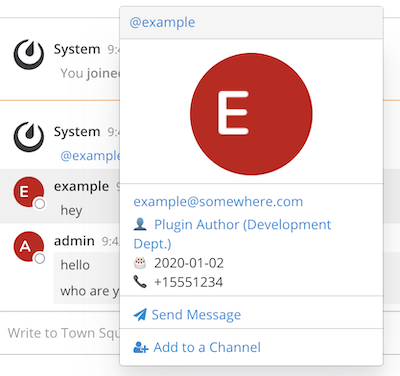
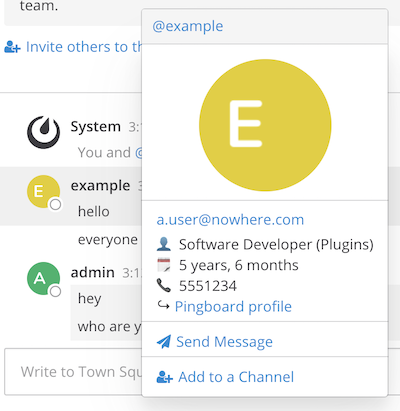
Reformat displayed information
Time since start instead of start date
Separate link to pingboard profile underneath

diff --git a/webapp/src/dateutil.test.js b/webapp/src/dateutil.test.js
@@ -1,0 +1,23 @@
+/* eslint-disable no-magic-numbers */
+import {describeTenure} from 'dateutil';
+
+test('Tenure descriptions are as expected', () => {
+    const startDate = new Date(2010, 6, 10);
+    expect(describeTenure(startDate, new Date(2010, 1, 30))).toStrictEqual('');
+    expect(describeTenure(startDate, new Date(2010, 6, 10))).toStrictEqual('New starter');
+    expect(describeTenure(startDate, new Date(2010, 6, 30))).toStrictEqual('New starter');
+    expect(describeTenure(startDate, new Date(2010, 7, 9))).toStrictEqual('New starter');
+    expect(describeTenure(startDate, new Date(2010, 7, 10))).toStrictEqual('1 month');
+    expect(describeTenure(startDate, new Date(2010, 7, 25))).toStrictEqual('1 month');
+    expect(describeTenure(startDate, new Date(2010, 8, 9))).toStrictEqual('1 month');
+    expect(describeTenure(startDate, new Date(2010, 8, 10))).toStrictEqual('2 months');
+    expect(describeTenure(startDate, new Date(2011, 1, 5))).toStrictEqual('6 months');
+    expect(describeTenure(startDate, new Date(2011, 1, 10))).toStrictEqual('7 months');
+    expect(describeTenure(startDate, new Date(2011, 6, 9))).toStrictEqual('11 months');
+    expect(describeTenure(startDate, new Date(2011, 6, 10))).toStrictEqual('1 year');
+    expect(describeTenure(startDate, new Date(2011, 8, 30))).toStrictEqual('1 year, 2 months');
+    expect(describeTenure(startDate, new Date(2011, 10, 5))).toStrictEqual('1 year, 3 months');
+    expect(describeTenure(startDate, new Date(2011, 10, 11))).toStrictEqual('1 year, 4 months');
+    expect(describeTenure(startDate, new Date(2013, 6, 10))).toStrictEqual('3 years');
+    expect(describeTenure(startDate, new Date(2099, 2, 15))).toStrictEqual('88 years, 8 months');
+});

diff --git a/webapp/src/components/user_attribute/user_attribute.jsx b/webapp/src/components/user_attribute/user_attribute.jsx
@@ -1,7 +1,9 @@
 import React from 'react';
 import PropTypes from 'prop-types';
 
+import {describeTenure} from '../../dateutil';
 import {id as pluginId} from '../../manifest';
+
 const {messageHtmlToComponent} = window.PostUtils;
 
 export default class UserAttribute extends React.PureComponent {
@@ -21,18 +23,23 @@ export default class UserAttribute extends React.PureComponent {
         if (pingboardInfo == null) {
             return null;
         }
+        const localDate = new Date();
+        const startDate = new Date(pingboardInfo.start_year, pingboardInfo.start_month - 1, pingboardInfo.start_day);
+        const tenure = describeTenure(startDate, localDate);
         const description = pingboardInfo.job_title + (pingboardInfo.department ? ` (${pingboardInfo.department})` : '');
         return (
             <div>
                 <div key={`${pluginId}_job_title`}>
-                    {messageHtmlToComponent(
-                        `<a href=${pingboardInfo.url} target="_blank">👤 ${description}</a>`)}
+                    {messageHtmlToComponent(`👤 ${description}`)}
                 </div>
                 <div key={`${pluginId}_start_date`}>
-                    {messageHtmlToComponent(`🎂 ${pingboardInfo.start_date}`)}
+                    {messageHtmlToComponent(`🗓 ${tenure}`)}
                 </div>
                 <div key={`${pluginId}_phone`}>
                     {messageHtmlToComponent(`📞 ${pingboardInfo.phone}`)}
+                </div>
+                <div key={`${pluginId}_link`}>
+                    {messageHtmlToComponent(`↪ <a href=${pingboardInfo.url} target="_blank">Pingboard profile</a>`)}
                 </div>
             </div>
         );

diff --git a/webapp/src/dateutil.js b/webapp/src/dateutil.js
@@ -1,0 +1,32 @@
+const MONTHS_IN_YEAR = 12;
+
+export function describeTenure(startDate, localDate) {
+    if (startDate > localDate) {
+        return '';
+    }
+    let years = localDate.getFullYear() - startDate.getFullYear();
+    let months = localDate.getMonth() - startDate.getMonth();
+    if (localDate.getDate() < startDate.getDate()) {
+        months -= 1;
+    }
+    if (months < 0) {
+        years -= 1;
+        months += MONTHS_IN_YEAR;
+    }
+
+    if (years === 0 && months === 0) {
+        return 'New starter';
+    }
+
+    let tenure = '';
+    if (years > 0) {
+        tenure = years + ' year' + (years === 1 ? '' : 's');
+    }
+    if (months > 0) {
+        if (tenure) {
+            tenure += ', ';
+        }
+        tenure += months + ' month' + (months === 1 ? '' : 's');
+    }
+    return tenure;
+}

diff --git a/server/plugin.go b/server/plugin.go
@@ -12,7 +12,9 @@ import (
 type User struct {
 	Id         string `json:"id"`
 	Url        string `json:"url"`
-	StartDate  string `json:"start_date"`
+	StartYear  int    `json:"start_year"`
+	StartMonth int    `json:"start_month"`
+	StartDay   int    `json:"start_day"`
 	Phone      string `json:"phone"`
 	JobTitle   string `json:"job_title"`
 	Department string `json:"department"`

diff --git a/README.md b/README.md
@@ -6,8 +6,10 @@ it on the user popover card.
 ## Features
 
 If data is found for the user, the user's popover card is extended with:
-* Job title and department, with hyperlink to user's Pingboard profile
-* Start date and phone number
+* Job title and department
+* Years/months since start date
+* Phone number
+* Link to user's Pingboard profile
 
 ![Screenshot](screenshot.png)
 
